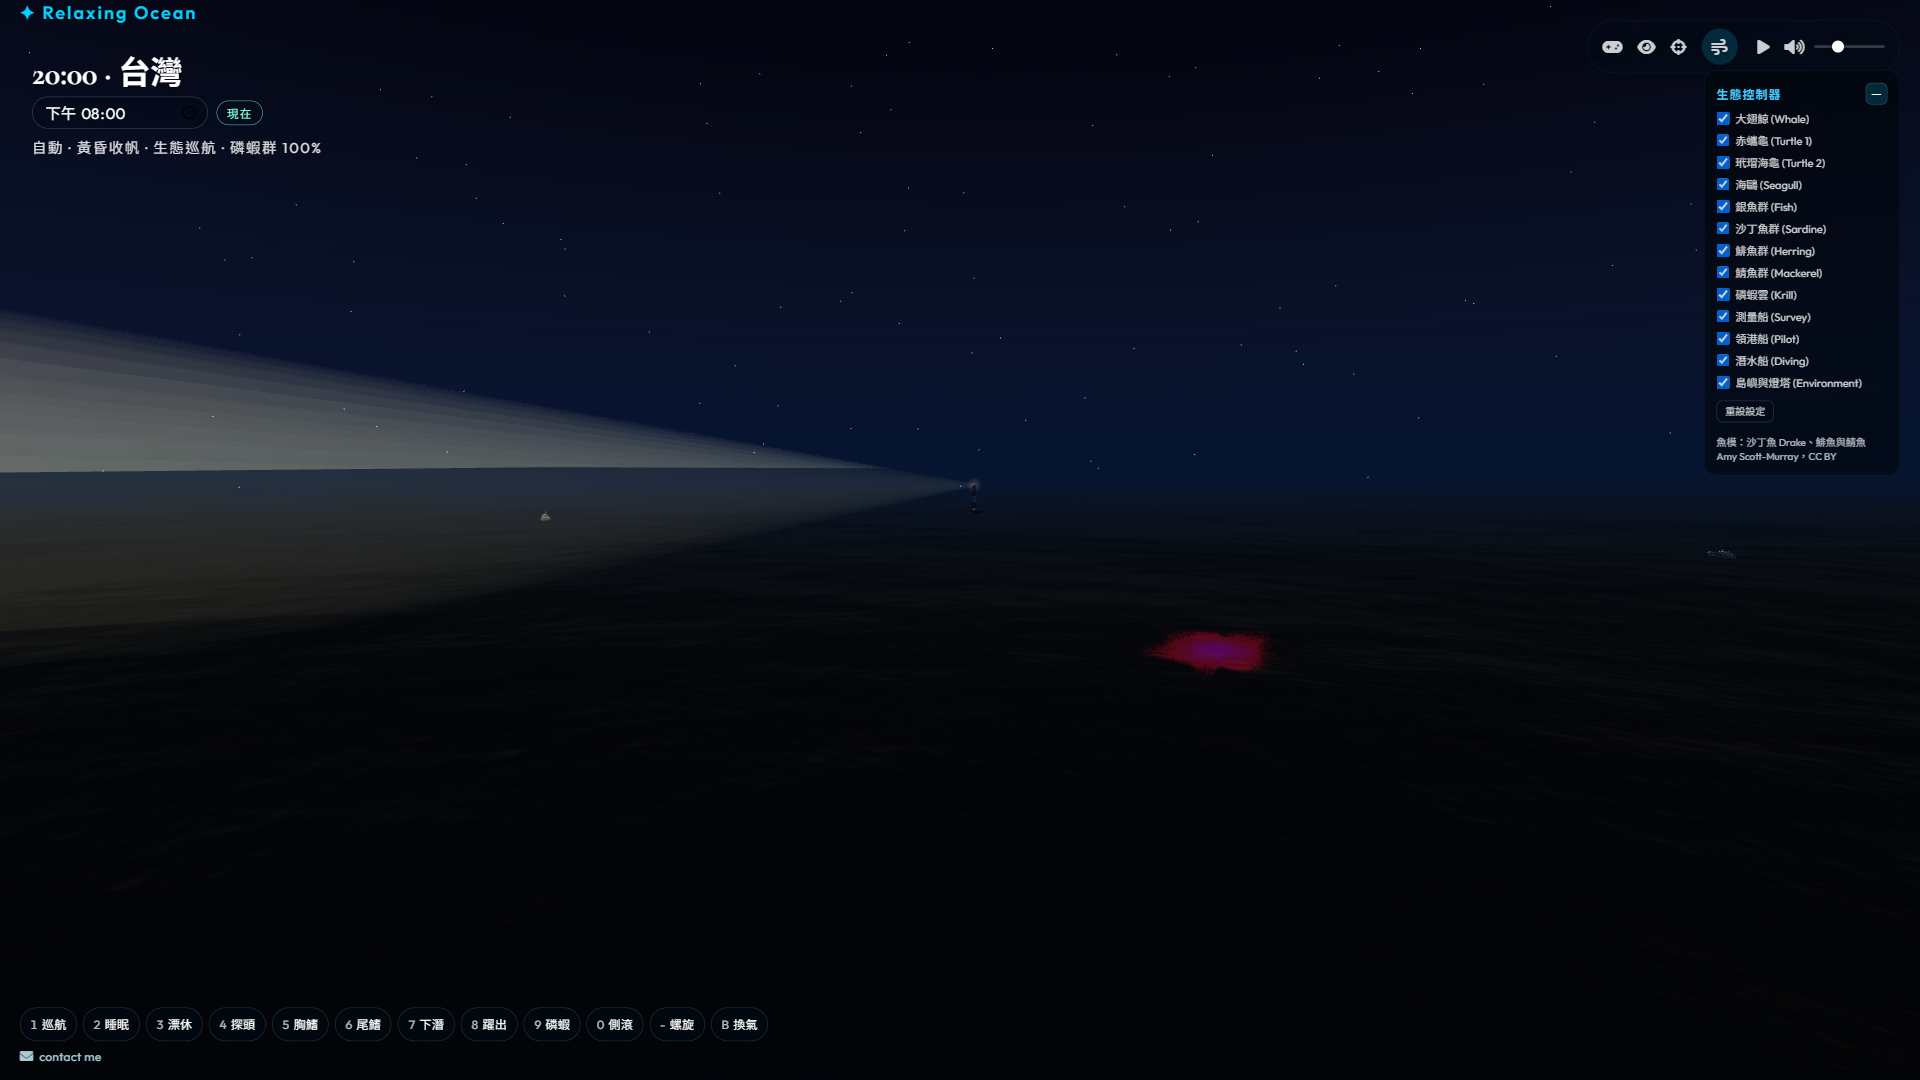
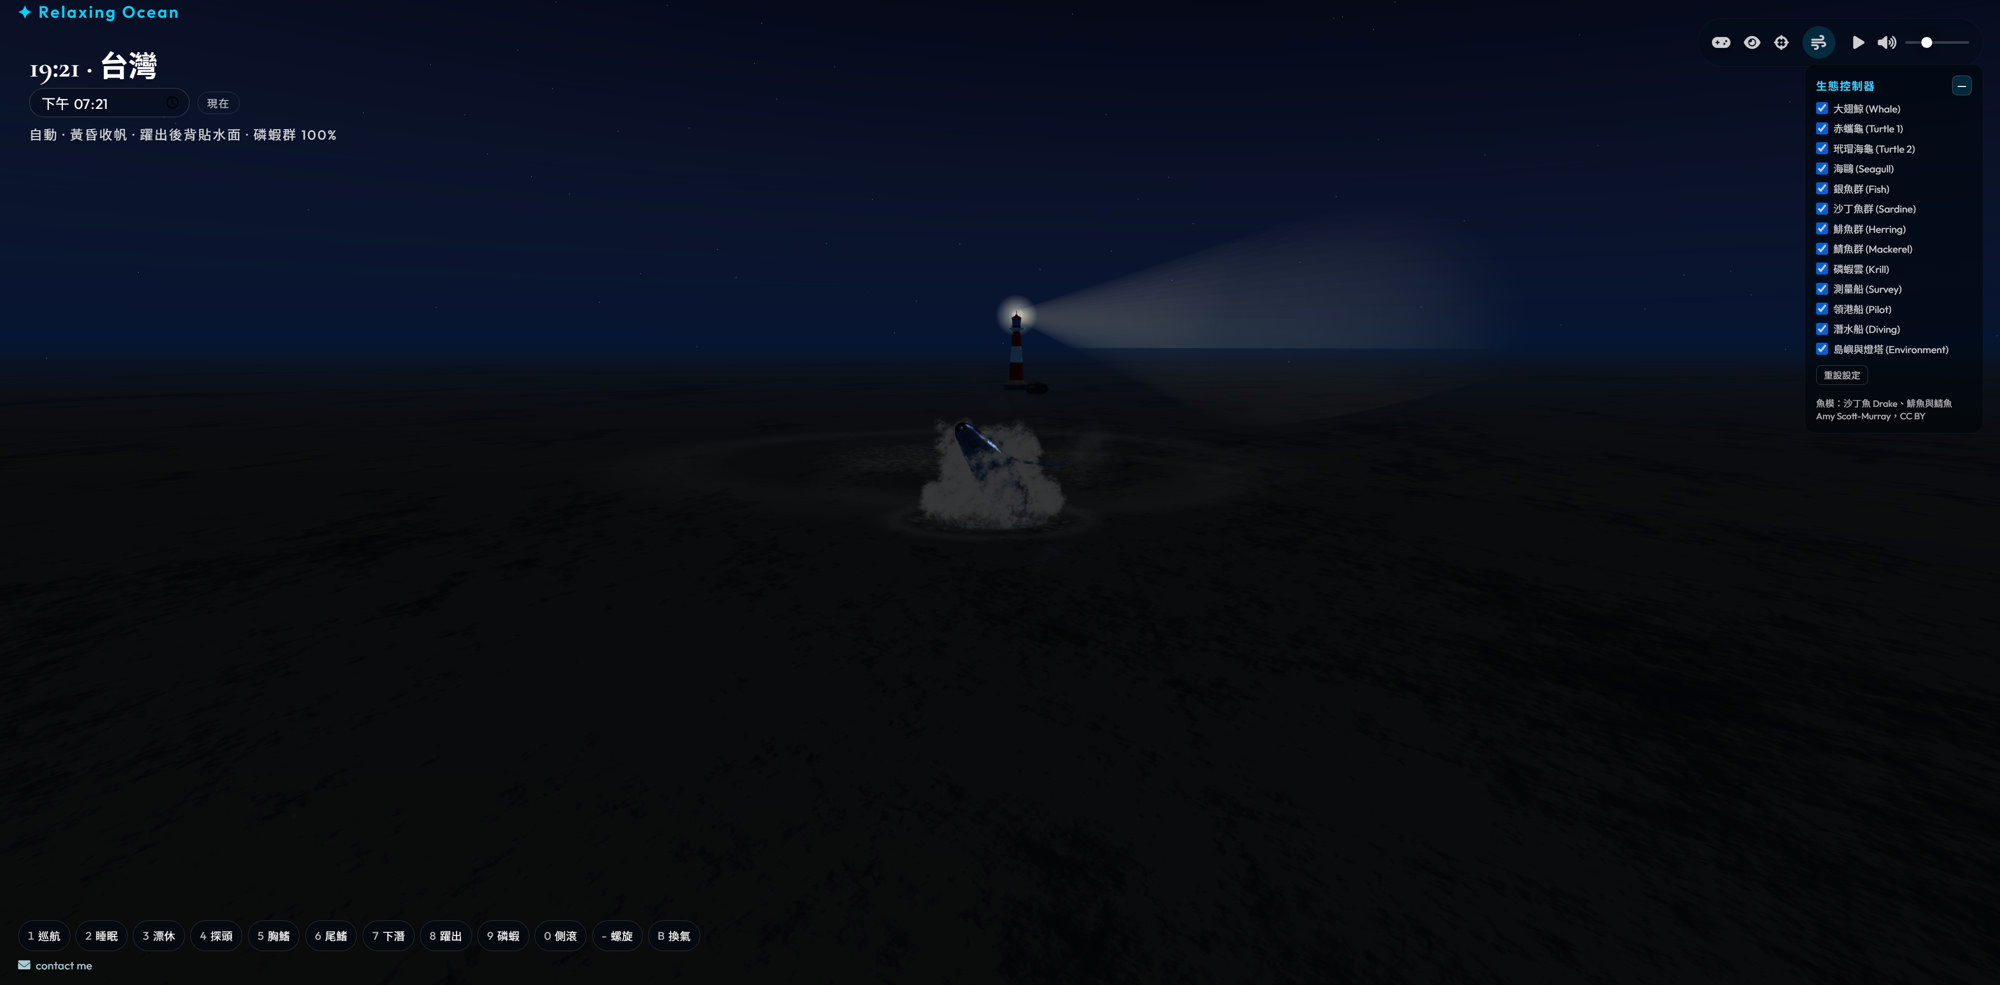
Show the whale in the morning and evening screenshots and note English.
The morning picture is the underwater view at 09:22. The evening picture is the surface at 19:21. The page uses Traditional Chinese when the browser language starts with zh, and English otherwise.

diff --git a/README.md b/README.md
@@ -2,21 +2,25 @@
 
 Android TV app for [Relaxing Ocean](https://relaxingocean.cc.cd/). It opens the live page full screen, and it can also run as the television screensaver.
 
-The pictures below are the live website. The left clock is Taiwan time. Morning is 08:00, evening is 20:00.
+The pictures below are the live website. The left clock is Taiwan time. The morning picture is 09:22, and the evening picture is 19:21.
 
 ## Morning
 
-![Morning at 08:00](docs/morning.png)
+![Morning at 09:22, whale underwater](docs/morning.png)
 
 ## Evening
 
-![Evening at 20:00](docs/evening.png)
+![Evening at 19:21, whale at the surface](docs/evening.png)
+
+## Language
+
+The page follows the browser language. Traditional Chinese is used when that language starts with zh. English is used for every other language. There is no language button on the page. The television app shows the language set on the television.
 
 ## How to use the website
 
 Open https://relaxingocean.cc.cd/. The opening screen enters the ocean by itself after about five seconds. Click it to enter sooner.
 
-The time field under the clock changes the scene. Choose a morning hour or an evening hour. 現在 returns to the current Taiwan time.
+The time field under the clock changes the scene. Choose a morning hour or an evening hour. Now returns to the current Taiwan time. On a Chinese page that button says 現在.
 
 Top right, from left to right:
 
@@ -27,7 +31,7 @@ Top right, from left to right:
 - Play: pause or resume
 - Speaker and slider: mute and volume
 
-The list on the right turns creatures, boats, and the island on or off. The buttons along the bottom play one action: 巡航, 睡眠, 漂休, 探頭, 胸鰭, 尾鰭, 下潛, 躍出, 磷蝦, 側滾, 螺旋, 換氣.
+The list on the right turns creatures, boats, and the island on or off. The buttons along the bottom play one action: Cruise, Sleep, Log, Spyhop, Pec, Tail, Dive, Breach, Krill, Roll, Spin, Breath. On a Chinese page those buttons are 巡航, 睡眠, 漂休, 探頭, 胸鰭, 尾鰭, 下潛, 躍出, 磷蝦, 側滾, 螺旋, 換氣.
 
 ## Television remote
 
@@ -58,7 +62,13 @@ Install `app/build/outputs/apk/debug/app-debug.apk` on an Android TV.
 
 ## 操作說明
 
-上面兩張是網站畫面。左上時鐘是台灣時間，早上是 08:00，晚上是 20:00。
+上面兩張是網站畫面。左上時鐘是台灣時間，早上那張是 09:22，晚上那張是 19:21。
+
+## 語系
+
+畫面跟著瀏覽器語系。語系是中文時用繁體中文，其他語系用英文。頁面上沒有切換語言的按鈕。電視 app 顯示電視設定的語系。
+
+英文時，時鐘寫 Taiwan，回到目前時間的按鈕是 Now。下方按鈕是 Cruise、Sleep、Log、Spyhop、Pec、Tail、Dive、Breach、Krill、Roll、Spin、Breath。
 
 打開 https://relaxingocean.cc.cd/ 。開始畫面約五秒後自己進入海洋，也可以直接點進去。
 
